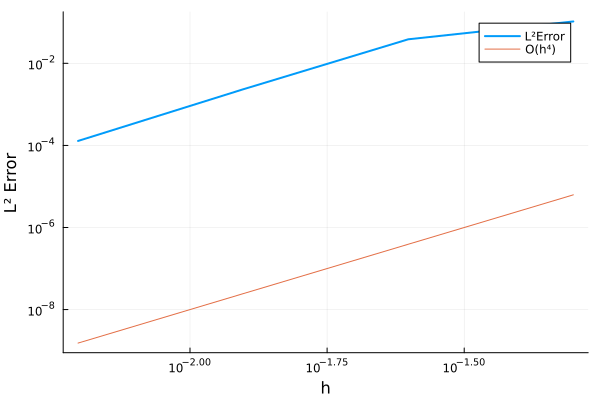
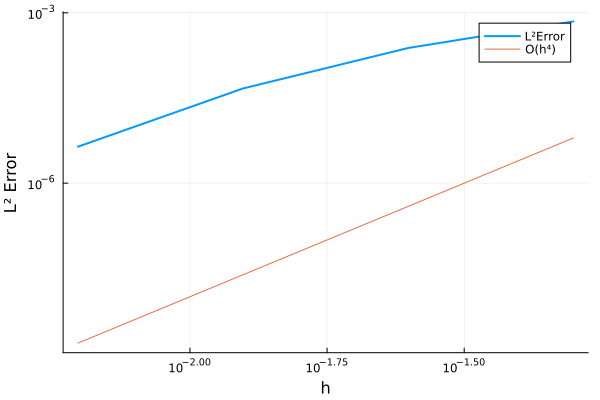
Update convergence rates results in the README

diff --git a/README.md b/README.md
@@ -634,18 +634,20 @@ Initial Conditions | |
 To solve the PDE, we use fourth-order Runge-Kutta scheme in time and the 4th order SBP-SAT method in space. We perform the grid refinement analysis to study the convergence of the scheme. Since the exact solution is unknown, we compute the solution on a mesh with $N=321$ discretization points and use that as the reference solution. We use $N=21,41,81,161$ points in space for the grid refinement analysis. We set the time discretization parameter $\Delta t = 10^{-4}$ and solve till final time $T=0.2$. The plot of the PML damping function considered in this example is shown below. We obtain the following error and convergence rates (only the displacement vector is considered when computing the error).
 
 ```julia
+#######################
+# Final time Tf = 0.2 #
+#######################
 julia> L²Error
 4-element Vector{Float64}:
- 0.10473513601109809
- 0.03849555545138056
- 0.002328787144654755
- 0.00012846337170572273
-
+ 0.004723955236564345
+ 0.002174302183436065
+ 0.0004446449423672759
+ 4.872447046438603e-5
 julia> rate
 3-element Vector{Float64}:
- 1.4439817189491857
- 4.047041201648996
- 4.180149807875461
+ 1.1194428347161927
+ 2.2898267784804034
+ 3.1899353642173014
 ```
 
 Convergence Rates | PML Damping Function |
@@ -656,7 +658,143 @@ Convergence Rates | PML Damping Function |
 --- | --- |
 | ![](./Images/PML/1-layer/horizontal-disp.png) | ![](./Images/PML/1-layer/vertical-disp.png) |
 
-We see that the convergence rate is 4th order as expected. Looking at the solution profiles (top: approximate solution, bottom: reference solution) at $T=0.2$, we see that the waves coming into the PML are absorbed.
+~~We see that the convergence rate is 4th order as expected~~. The rate should increase to 4 as we increase the number of points, or running it for a smaller final time, as shown below.
+
+```julia
+#######################
+# Final time Tf = 0.1 #
+#######################
+julia> L²Error
+4-element Vector{Float64}:
+ 0.000703989927098145
+ 0.00024032024728754518
+ 4.658858168522433e-5
+ 4.394987022138958e-6
+julia> rate
+3-element Vector{Float64}:
+ 1.5505965840042568
+ 2.3669098867998986
+ 3.406045600189327
+```
+
+
+Looking at the solution profiles (top: approximate solution, bottom: reference solution) at $T=0.2$, we see that the waves coming into the PML are absorbed.
+
+### Two Layers
+
+Now, we consider the elastic wave equation on two domains coupled at the interface using the interface conditions
+
+$$
+\begin{align*}
+  \sigma_1^{PML}(\mathbf{u}_1, \mathbf{v}_1) \cdot \mathbf{n} &= \sigma_2^{PML}(\mathbf{u}_2, \mathbf{v}_2) \cdot \mathbf{n},\\
+  \mathbf{u}_1 &= \mathbf{u}_2
+\end{align*}
+$$
+
+where 
+
+$$
+  \sigma_i^{PML}(\mathbf{u}, \mathbf{v}) = 
+    \begin{bmatrix}
+      A_i(\mathbf{x})\frac{\partial \mathbf{u}_i}{\partial x} + C_i(\mathbf{x})\frac{\partial \mathbf{u}_i}{\partial y} - \sigma_p(\mathbf{x})A_i(\mathbf{x})\mathbf{v}_i&
+      C_i^T(\mathbf{x})\frac{\partial \mathbf{u}_i}{\partial x} + B_i(\mathbf{x})\frac{\partial \mathbf{u}_i}{\partial y} + \sigma_p(\mathbf{x})B_i(\mathbf{x})\mathbf{v}_i
+    \end{bmatrix}
+$$
+
+with $i=1,2$ and $\sigma_p(\mathbf{x})$ is the PML damping function. Here the auxiliary variable $\mathbf{v}_i$ is related to the displacement by the relation
+
+$$
+  \frac{\partial \mathbf{v}_i}{\partial t} = -(\sigma_p + \alpha)\mathbf{v}_i + \frac{\partial \mathbf{u}_i}{\partial x}
+$$
+
+The PML model actually consists of a system of ten partial differential equations per layer. More details will be added here soon.
+
+The computational domain we consider here is given by the parametrization:
+
+- Layer 1: 
+  - Left: $c_0(r) = [0, r+1]$
+  - Bottom: $c_1(q) = [q, 1 + f(q)]$ (interface)
+  - Right: $c_2(r) = [1, r+1]$
+  - Top: $c_3(q) = [q, 2]$
+- Layer 2:
+  - Left: $c_0(r) = [0, r]$
+  - Bottom: $c_1(q) = [q, 0]$
+  - Right: $c_2(r) = [1, r]$
+  - Top: $c_3(q) = [q, 1 + f(q)]$ (interface)
+
+with the function $f(q) = 0.12 \left(e^{-40(q-0.5)^2}\right)$ for a Gaussian hill, and $f(q) = 0$ for a flat interface. We take the PML damping function of the form 
+
+$$
+\begin{align}
+  \sigma_p(x) = \begin{cases}
+                0, & \text{if} \quad x \le L_x\\
+                \sigma_0\left( \frac{x-L_x}{\delta}\right)^3 & \text{if} \quad x \ge L_x
+              \end{cases}
+\end{align}
+$$
+
+with $L_x = 0.8$. We consider the following initial condition for the displacement field:
+
+$$
+\begin{align}
+  \mathbf{u}_0^1(x,y) = [e^{-40((x-0.5)^2 + (y-0.5)^2)}, -e^{-40((x-1.5)^2 + (y-1.5)^2)}] \quad \text{Layer 1}\\
+  \mathbf{u}_0^2(x,y) = [e^{-40((x-0.5)^2 + (y-0.5)^2)}, -e^{-40((x-0.5)^2 + (y-0.5)^2)}] \quad \text{Layer 2}\\
+\end{align}
+$$
+
+The plots of the PML damping function are shown below
+
+Flat Interface | Gaussian Hill |
+--- | --- |
+![](./Images/PML/2-layer/uniform/pml-damping.png) | ![](./Images/PML/2-layer/gaussian/pml-damping.png)
+
+We solve the problem using the 4th order SBP-SAT method in space and the 4th order Runge Kutta scheme in the temporal direction. In both cases we take $\Delta t = 5\times 10^{-5}$ and solve till final time $T=0.2$ s. The discrete solution computing using $(321 \times 321)$ points in the spatial axis is treated as the exact solution. For the grid refinement analysis, we use $N \times N$ grids with $N=21,41,81,161$ points in space and compute the error. Following are the solution plots for the displacements
+
+Horizontal Displacement | Vertical Displacement |
+--- | --- |
+![](./Images/PML/2-layer/uniform/horz-disp.png) | ![](./Images/PML/2-layer/uniform/vert-disp.png) |
+![](./Images/PML/2-layer/gaussian/horz-disp.png) | ![](./Images/PML/2-layer/gaussian/vert-disp.png) |
+
+The error and convergence rates of the method are as follows
+
+```julia
+#####################
+# Uniform Interface #
+#####################
+julia> L²Error
+4-element Vector{Float64}:
+ 0.006681049017310784
+ 0.0030749347917503993
+ 0.0006288235501474897
+ 6.890709332296337e-5
+julia> rate
+3-element Vector{Float64}:
+ 1.1195188271749204
+ 2.289828662161561
+ 3.1899308418814973
+
+######################
+# Gaussian Interface #
+######################
+julia> L²Error
+4-element Vector{Float64}:
+  0.007012015716318112
+  0.00308016466332667
+  0.000631048669338259
+  7.436827095898331e-5
+julia> rate
+3-element Vector{Float64}:
+  1.1868217512800554
+  2.287184296589922
+  3.0849921412884393
+```
+
+The rates may eventually increase to 4 as we reduce the number of points in the spatial axis, or running it for a smaller final time.
+
+(Rate) Flat Interface | (Rate) Gaussian Hill |
+--- | --- |
+![](./Images/PML/2-layer/uniform/rate-of-convergence.png) | ![](./Images/PML/2-layer/gaussian/rate-of-convergence.png)
+
 
 # References
 
